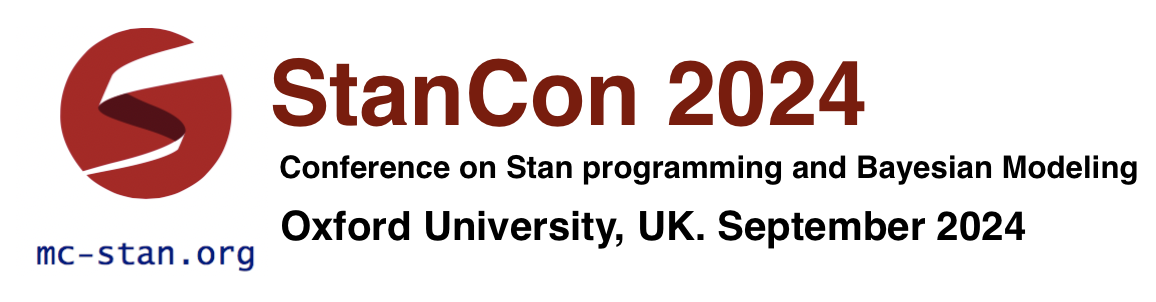
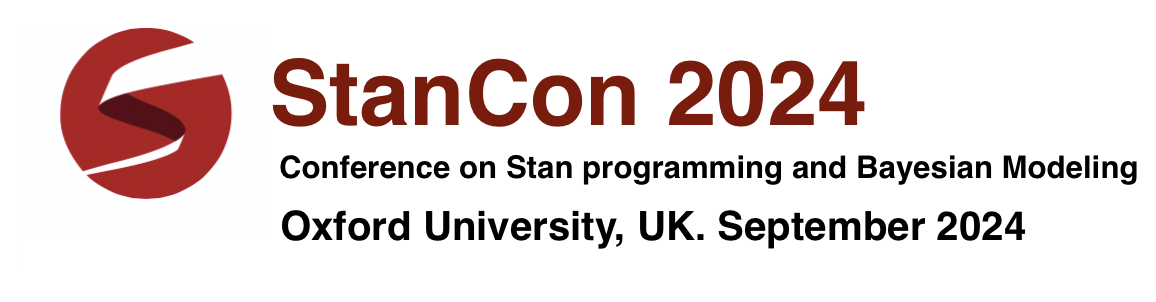
adjust header images for StanCon2024 event page.

Changed region(s): [[0.0311, 0.8046, 0.218, 0.894]]

diff --git a/events/stancon2024/index.md b/events/stancon2024/index.md
@@ -8,12 +8,13 @@ image:
   credit:
   creditlink:
 ---
+
 <center style="padding: 0.75em 0 0 0">
-<img width="700" src="./img/banner.png" /><br>
+<img width="500" src="./img/Oxford.png" /><br>
 </center>
 
 <center style="padding: 0.75em 0 0 0">
-<img width="900" src="./img/Oxford.png" /><br>
+<img width="700" src="./img/banner.png" /><br>
 </center>
 
 ------
